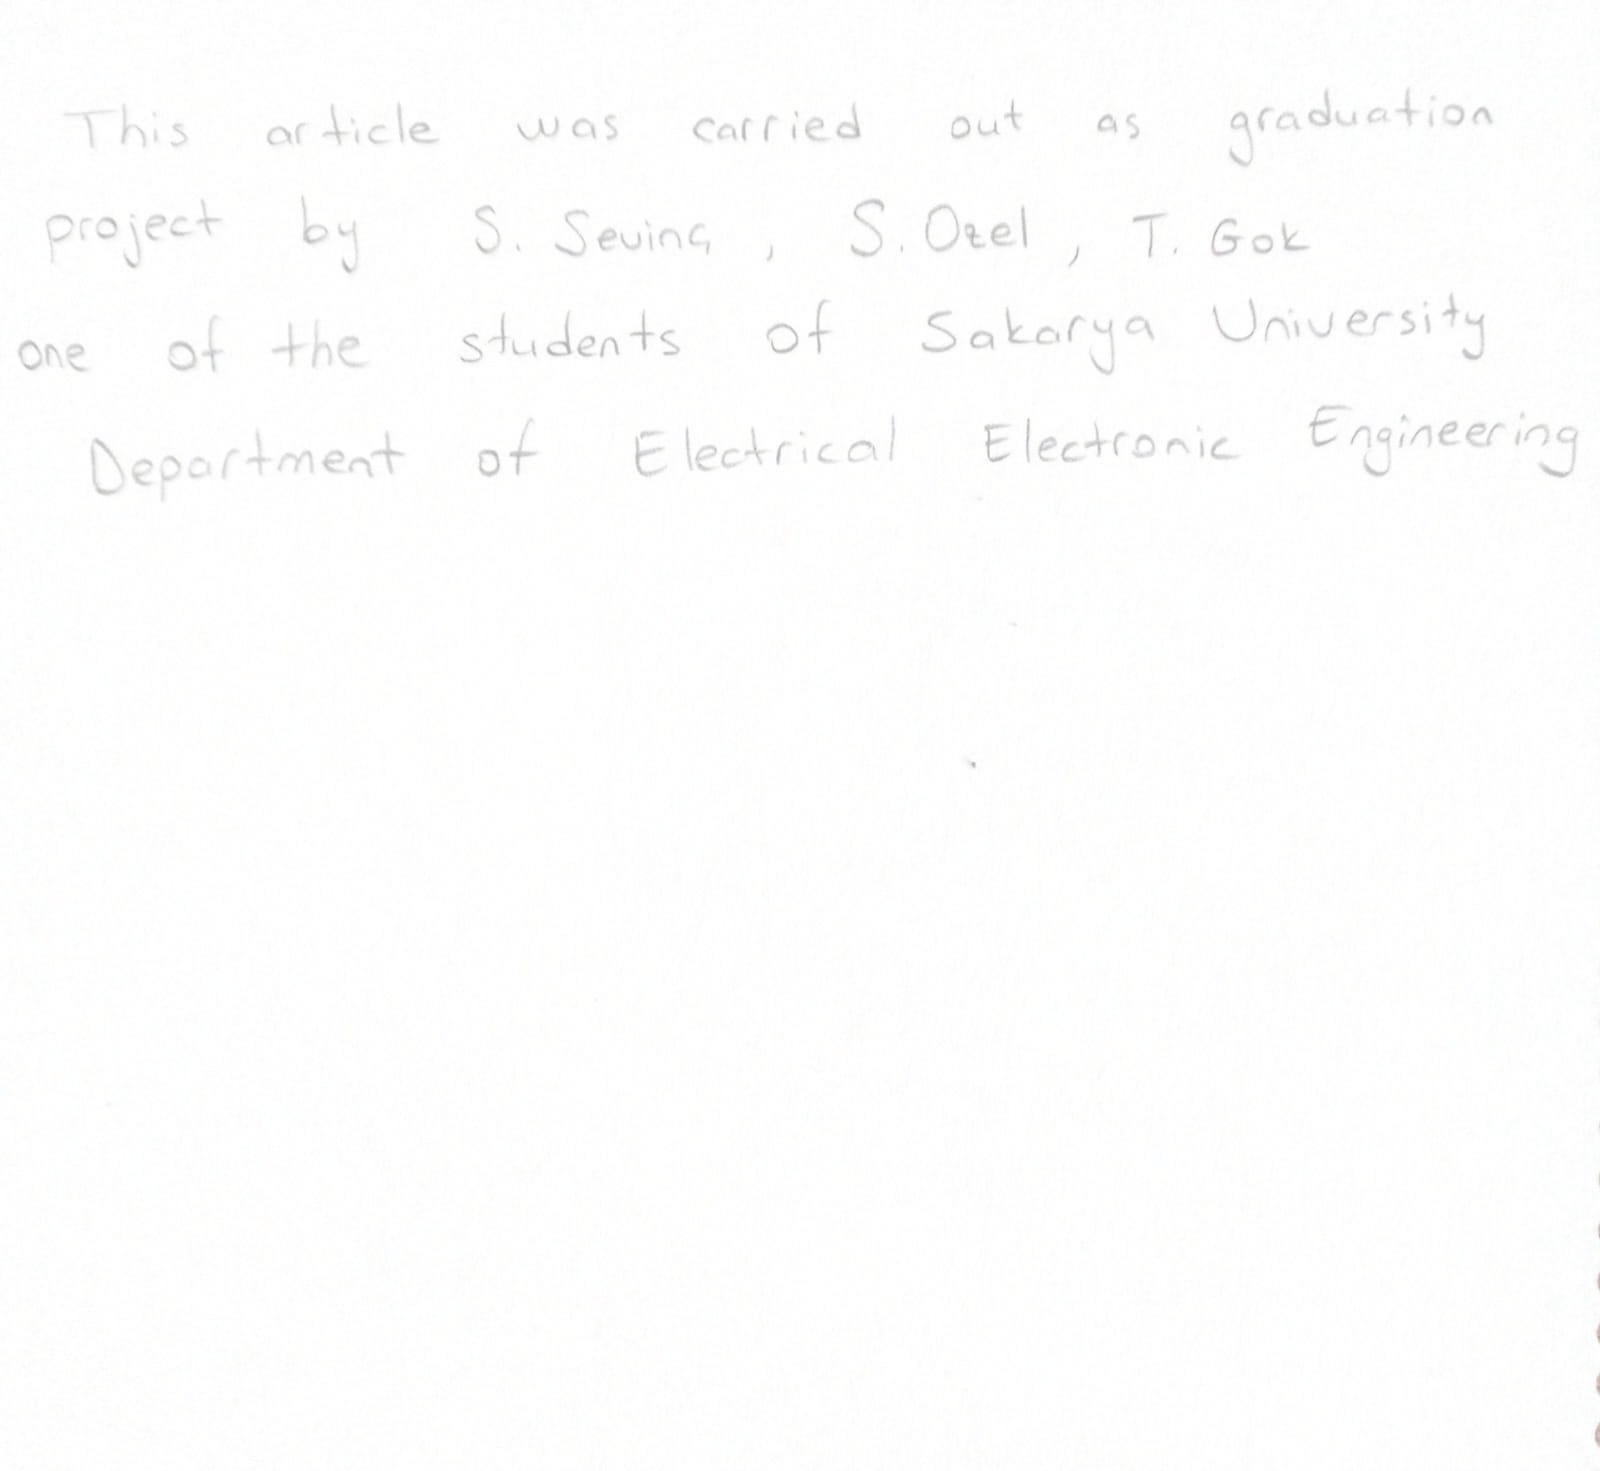
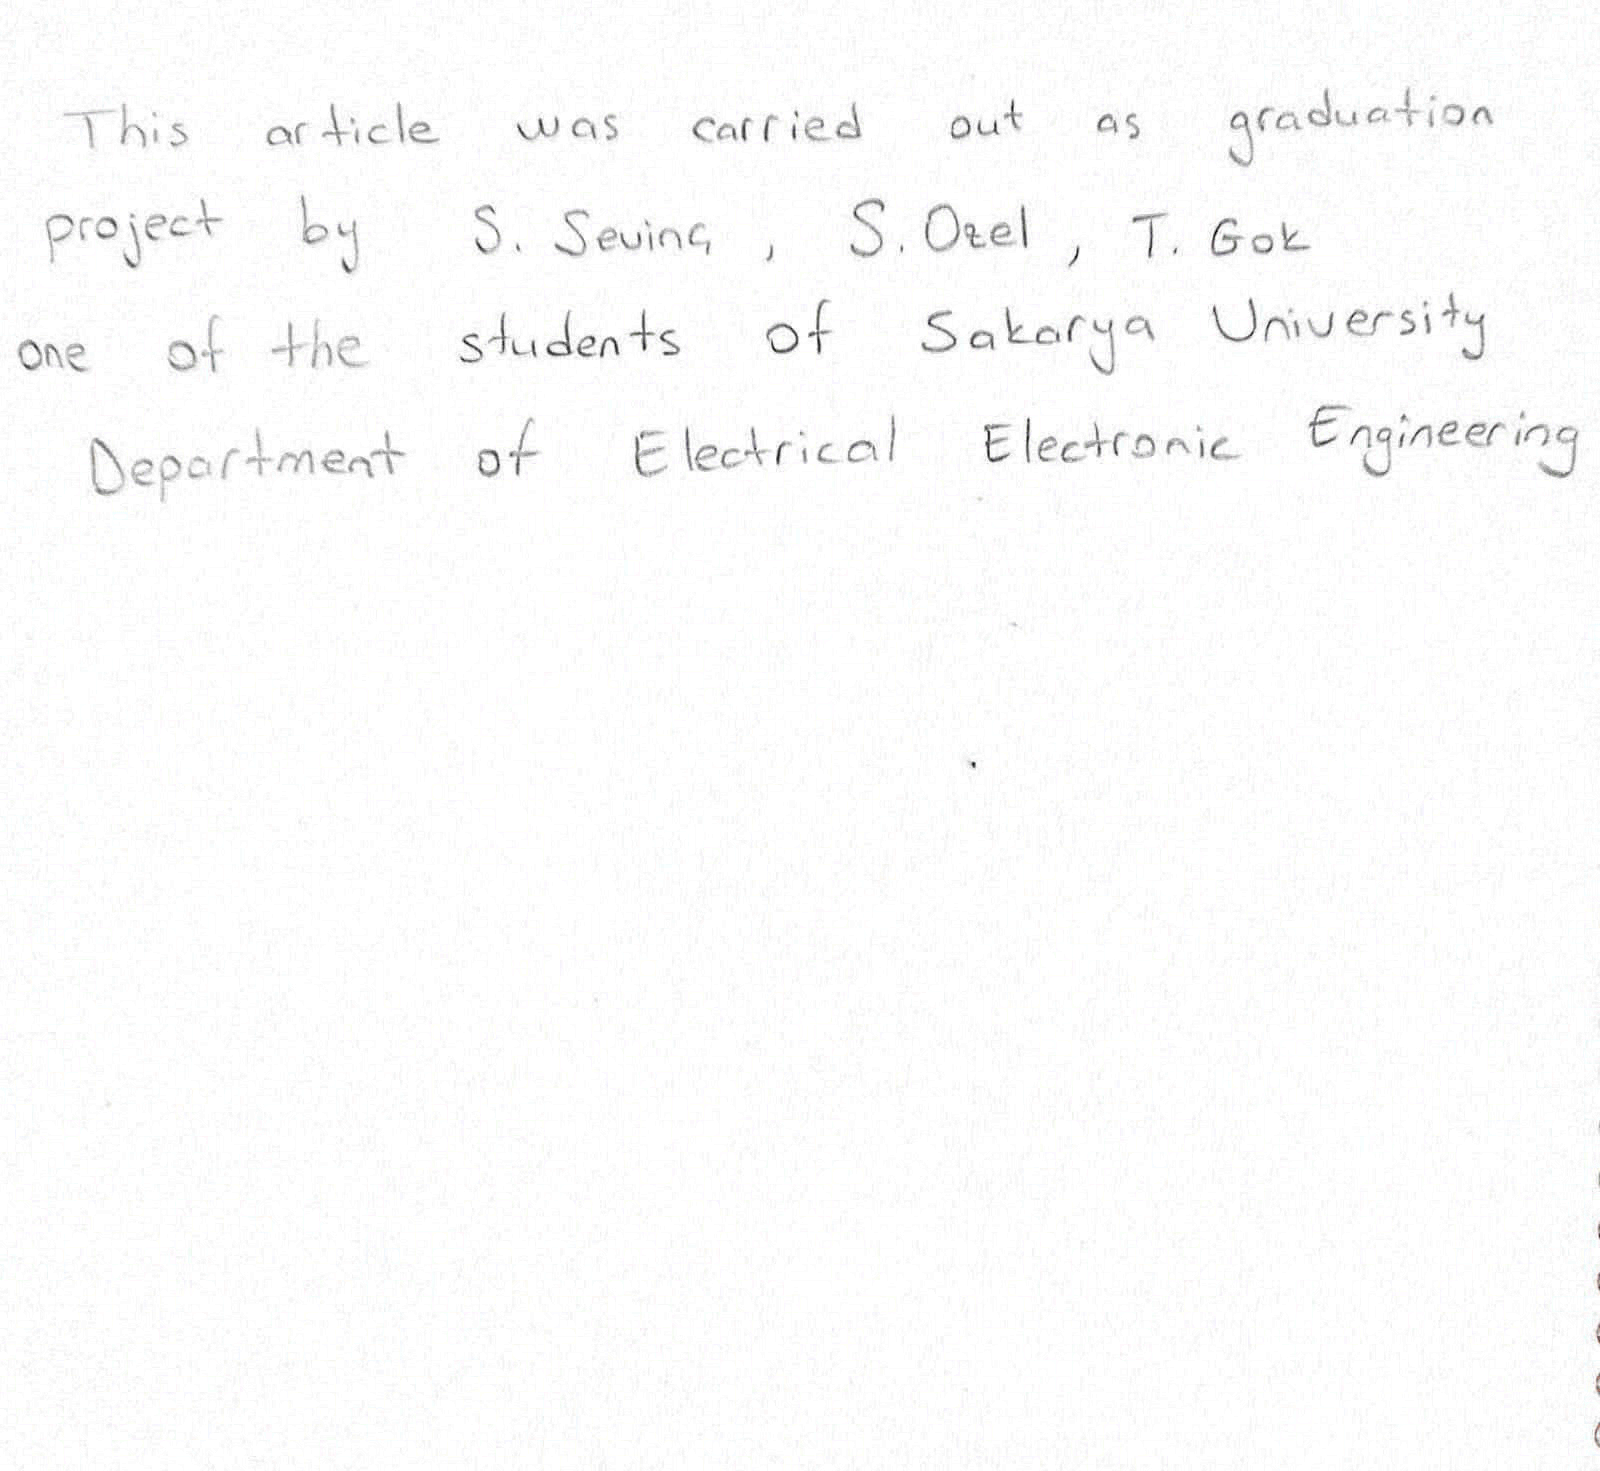
revision

diff --git a/main.py b/main.py
@@ -1,12 +1,10 @@
 from PIL import Image
 import cv2
-import page
-
-import words
-from utils import *
-import utils
 import numpy as np
 import os
+import page
+import words
+from utils import *
 
 
 folder_path = r'segmented'
@@ -26,20 +24,22 @@ rgb_planes = cv2.split(image)
 result_planes = []
 result_norm_planes = []
 for plane in rgb_planes:
-    dilated_img = cv2.dilate(plane, np.ones((5,5), np.uint8))
-    bg_img = cv2.medianBlur(dilated_img, 21)
-    diff_img = 255 - (cv2.absdiff(plane, bg_img) )
-    norm_img = cv2.normalize(diff_img,None, alpha=0, beta=255, norm_type=cv2.NORM_MINMAX, dtype=cv2.CV_8UC1)
+    dilated_img = cv2.dilate(plane, np.ones((3,3), np.uint8))
+    bg_img = cv2.medianBlur(dilated_img, 7)
+    diff_img = 255 - (cv2.absdiff(plane, bg_img, cv2.CV_32S))
+    norm_img = cv2.normalize(diff_img, diff_img, alpha=0, beta=255, norm_type=cv2.NORM_MINMAX, dtype=cv2.CV_8UC4)
     result_planes.append(diff_img)
     result_norm_planes.append(norm_img)
 result = cv2.merge(result_planes)
 shadows_out_image = cv2.merge(result_norm_planes)
 
     ##### shadow removed from image #####
-
+thresh = 230
+shadows_out_image = cv2.threshold(shadows_out_image, thresh, 255, cv2.THRESH_BINARY)[1]
 # shadows out image saved JUST IN CASE #
 cv2.imwrite('image/shadows_out_image.png', shadows_out_image)
 cv2.imwrite('image/diff_img.png', result)
+cv2.imwrite('image/image.png', image)
 
 
 # Crop image and get limiting lines of boxes
